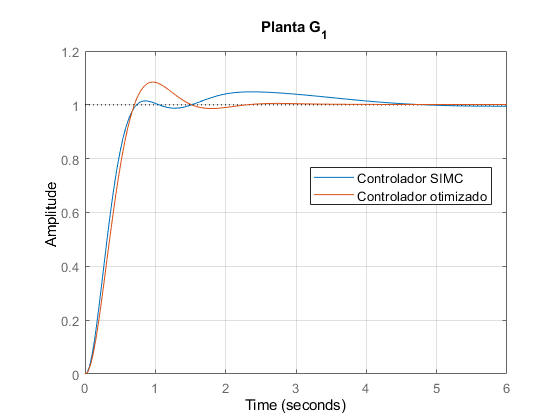
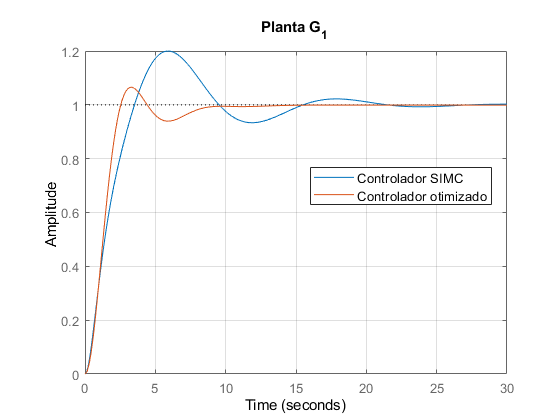
att

diff --git a/Projeto_1_Placa_Termica/identificacao_do_sistema.m b/Projeto_1_Placa_Termica/identificacao_do_sistema.m
@@ -158,9 +158,9 @@ L22_med = (L22_aq + L22_resf)/2;
 
 G22_med = tf(K22_med, [T22_med 1], 'iodelay', L22_med);
 
-figure(9);
-plot(t,pv2-pv2(1), t, Sis_id);
-title('MV2 e PV2 modelo médio');
+% figure(9);
+% plot(t,pv2-pv2(1), t, Sis_id);
+% title('MV2 e PV2 modelo médio');
 
 %% Projetando os controladores PI ulizando o método SIMC, com \tau_c = \theta
 %% Com base nos parâmetros dos modelos médios de G11 e G22
@@ -251,22 +251,24 @@ stepinfo(H)
 s = tf('s');
 
 % Criterios antes da otimização
-MSb=norm(feedback(1,pade(G22_med)*Cpi22),inf)
+MSb=norm(feedback(1,pade(G22_med*Cpi22)),inf)
 MTb=norm(feedback(pade(G22_med)*Cpi22,1),inf)
 Jvb=norm(feedback(pade(G22_med)/s,Cpi22),inf)
 Jub=norm(feedback(Cpi22, pade(G22_med)),inf)
 
 % Critérios de restrição
-MS_max=1.6;
-MT_max=1.0;
-% Jv_max=0.15;
-Ju_max=20.4;
-x = [Kp22, Kp22/Ti22, 0];
+MS_max=1.8;
+MT_max=1.005;
+Jv_max=inf;
+Ju_max=inf;
+Ki22 = Kp22/Ti22;
+% x = [Kp22, Ki22, 0];
+x = [12, 0.1, 0];
 
 % Otimização dos parâmetro do controlador PI
 options = optimset('Algorithm','active-set');
-x=fmincon(@(x) objfun(x,s,G22_med),x,[],[],[],[],...
-[], [], @(x)confun(x,s,G22_med,MS_max,MT_max,Ju_max), options);
+x=fmincon(@(x) objfun_Ki(x),x,[],[],[],[],...
+[], [], @(x)confun(x,s,G22_med,MS_max,MT_max,Jv_max,Ju_max), options);
 
 Kp = x(1); Ki = x(2); Kd = x(3);
 Kpid = Kp + Ki/s + Kd*s/(1+0.01*s);
@@ -281,6 +283,6 @@ Ju=norm(feedback(Kpid, pade(G22_med)),inf)
 step(H22);
 title('Resposta ao degrau para a malha 2');
 hold on;
-step(H,'y--');
+step(H);
 legend('SIMC', 'Otimizado', 'Location','southeast');
 stepinfo(H)

diff --git a/Projeto_1_Placa_Termica/confun.m b/Projeto_1_Placa_Termica/confun.m
@@ -1,12 +1,12 @@
-function [C,Ceq]=confun(x,s,G,MS_max,MT_max, Ju_max)
+function [C,Ceq]=confun(x,s,G,MS_max,MT_max,Jv_max,Ju_max)
     Kp=x(1); Ki=x(2); Kd=x(3);
     K=Kp + Ki/s + Kd*s/(1+0.01*s); % Controlador PID
     MS=norm(feedback(1,pade(G)*K),inf);                 % Margem de estabilidade
     MT=norm(feedback(pade(G)*K,1),inf);                 %
     Ju=norm(feedback(K, pade(G)),inf);
-%     Jv=norm(feedback(pade(G)/s,K),inf);
+    Jv=norm(feedback(pade(G)/s,K),inf);
     stab=norm(feedback(pade(G)*K,1)); % Norma 2 da função de sensibilidade complementar
-    if stab<inf, C=[MS-MS_max; MT-MT_max; Ju-Ju_max];
-    else C=[1; 1; 1]; end
+    if stab<inf, C=[MS-MS_max; MT-MT_max;Jv-Jv_max; Ju-Ju_max];
+    else C=[1; 1; 1; 1]; end
     Ceq=[];
 return

diff --git a/Controlador_PID_otimizacao/plantas_aproximadas.m b/Controlador_PID_otimizacao/plantas_aproximadas.m
@@ -35,14 +35,15 @@ step(H1);
 %%
 
 s=tf('s'); 
-% G=1/((1+s)*(1+0.5*s)*(1+0.25*s)); % G1
-G=1/(1+s)^3;                      % G2
+
+G=1/(1+s)^3;                        % G1
+% G=exp(-0.3*s)/((1+s)*(1+0.5*s));   % G2
+
 
 % 2ª ordem
 T = 0;
-%taui = [1, 0.5, 0.25]; % G1
+%taui = [1, 0.5, 0];   % G1
 taui = [1, 1, 1];      % G2
-% taui = [1, 0.5, 0];   % G3
 %taui = [1, 0.2, 0];    %G4
 %taui = [1,1,1,1];
 theta0 = 0;
@@ -95,7 +96,7 @@ MS=norm(feedback(1,pade(G)*Kpid),inf)
 MT=norm(feedback(pade(G)*Kpid,1),inf)
 step(H);
 stepinfo(H)
-title('Planta G_2');
+title('Planta G_1');
 legend('Controlador SIMC', 'Controlador otimizado', 'location', 'best','FontSize', 10);
 grid on;
 

diff --git a/Controlador_PID_otimizacao/objfun.m b/Controlador_PID_otimizacao/objfun.m
@@ -1,4 +1,4 @@
-function MT=objfun(x,s,G)
+function Jv=objfun(x,s,G)
     Kp=x(1); Ki=x(2); Kd=x(3);
     Fd = Kp + Ki/s; + Kd*s/(1+0.01*s);
 %     MT=norm(feedback(pade(G)*Fd,1),inf);

diff --git a/Projeto_1_Placa_Termica/objfun_Ki.m b/Projeto_1_Placa_Termica/objfun_Ki.m
@@ -1,0 +1,3 @@
+function Ki=objfun_Ki(x)
+    Ki = -x(2);
+return 
